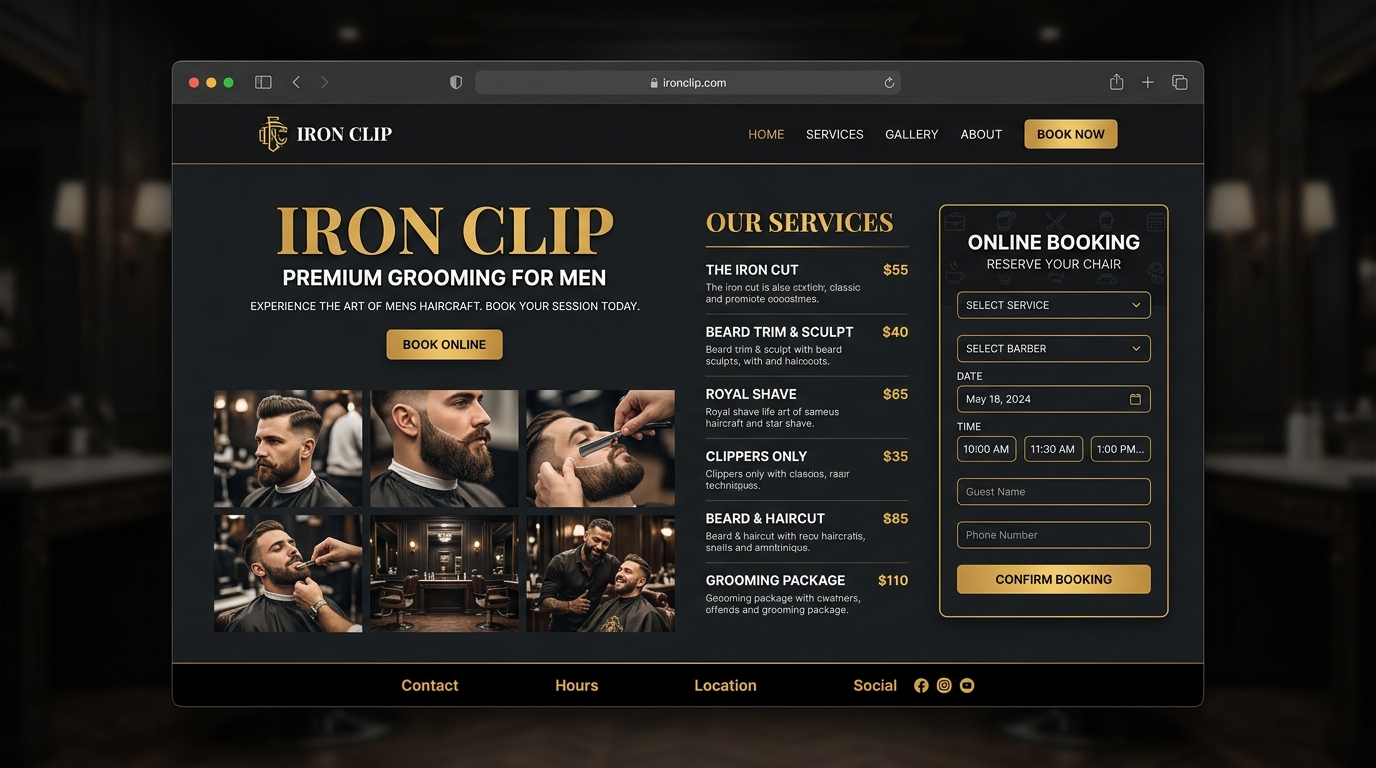
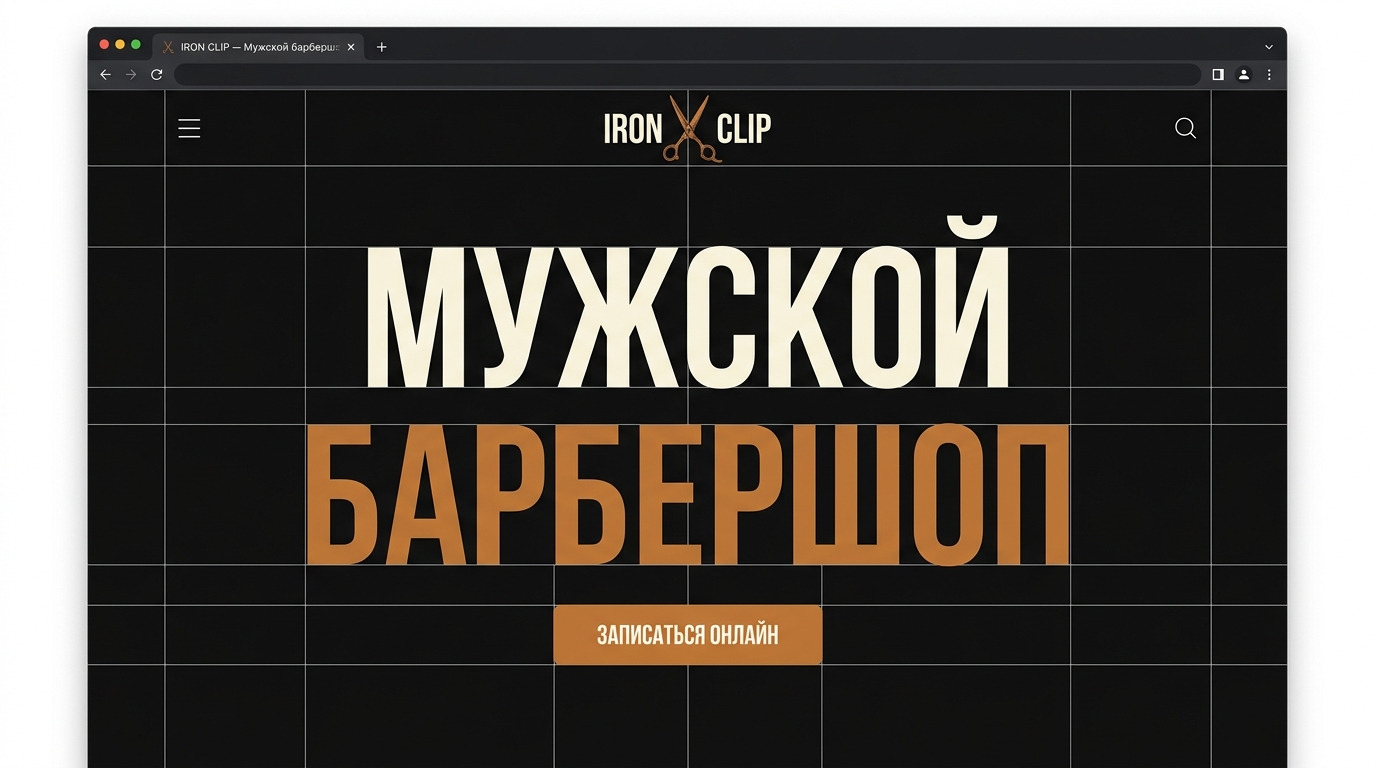
Replace portfolio preview images with exact site matching UI screenshots

diff --git a/index.html b/index.html
@@ -942,7 +942,7 @@ footer{border-top:1px solid var(--border);padding:26px 36px;}
           <div class="pf-tags"><span class="pf-tag">HTML</span><span class="pf-tag">CSS</span><span class="pf-tag">Vanilla JS</span><span class="pf-tag">Bebas Neue + Inter</span></div>
           <a href="barbie/index.html" target="_blank" rel="noopener" class="pf-link">Открыть проект <svg width="16" height="16" viewBox="0 0 16 16" fill="none"><path d="M3 8h10M9 4l4 4-4 4" stroke="currentColor" stroke-width="1.5" stroke-linecap="round" stroke-linejoin="round"/></svg></a>
         </div>
-        <a href="barbie/index.html" target="_blank" rel="noopener" class="pf-img"><img src="images/previews/barbie_preview.jpg?v=2" alt="IRON CLIP" loading="lazy" /></a>
+        <a href="barbie/index.html" target="_blank" rel="noopener" class="pf-img"><img src="images/previews/barbie_preview.jpg?v=3" alt="IRON CLIP" loading="lazy" /></a>
       </div>
 
       <div class="pf-item reveal d1">
@@ -953,7 +953,7 @@ footer{border-top:1px solid var(--border);padding:26px 36px;}
           <div class="pf-tags"><span class="pf-tag">HTML</span><span class="pf-tag">CSS</span><span class="pf-tag">Vanilla JS</span><span class="pf-tag">Python · Flask</span><span class="pf-tag">SQLite</span></div>
           <a href="lawyer/index.html" target="_blank" rel="noopener" class="pf-link">Открыть проект <svg width="16" height="16" viewBox="0 0 16 16" fill="none"><path d="M3 8h10M9 4l4 4-4 4" stroke="currentColor" stroke-width="1.5" stroke-linecap="round" stroke-linejoin="round"/></svg></a>
         </div>
-        <a href="lawyer/index.html" target="_blank" rel="noopener" class="pf-img"><img src="images/previews/lawyer_preview.jpg?v=2" alt="Юридическая Защита" loading="lazy" /></a>
+        <a href="lawyer/index.html" target="_blank" rel="noopener" class="pf-img"><img src="images/previews/lawyer_preview.jpg?v=3" alt="Юридическая Защита" loading="lazy" /></a>
       </div>
 
       <div class="pf-item reveal d2">
@@ -964,7 +964,7 @@ footer{border-top:1px solid var(--border);padding:26px 36px;}
           <div class="pf-tags"><span class="pf-tag">Next.js 14</span><span class="pf-tag">TypeScript</span><span class="pf-tag">Tailwind CSS</span><span class="pf-tag">PostgreSQL</span></div>
           <a href="cake/" target="_blank" rel="noopener" class="pf-link">Открыть проект <svg width="16" height="16" viewBox="0 0 16 16" fill="none"><path d="M3 8h10M9 4l4 4-4 4" stroke="currentColor" stroke-width="1.5" stroke-linecap="round" stroke-linejoin="round"/></svg></a>
         </div>
-        <a href="cake/" target="_blank" rel="noopener" class="pf-img"><img src="images/previews/cake_preview.jpg?v=2" alt="Кондитер" loading="lazy" /></a>
+        <a href="cake/" target="_blank" rel="noopener" class="pf-img"><img src="images/previews/cake_preview.jpg?v=3" alt="Кондитер" loading="lazy" /></a>
       </div>
 
     </div>
